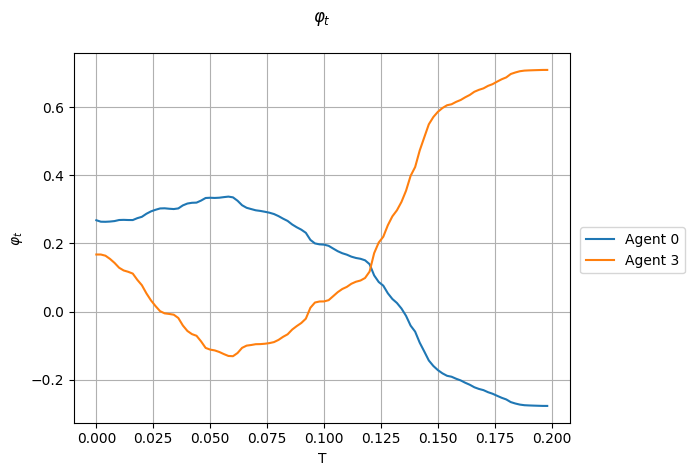
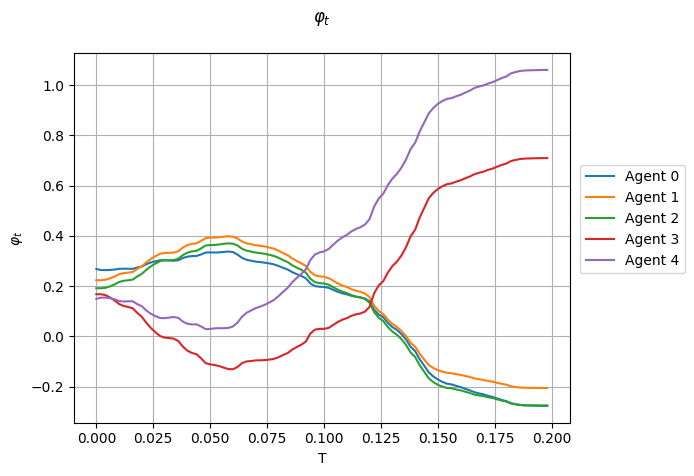
plot all 5 agents for 1.5 cost

diff --git a/Stage2/gan2.py b/Stage2/gan2.py
@@ -26,7 +26,7 @@ else:
 
 ## Regimes
 N_AGENT = 5
-COST_POWER = 2
+COST_POWER = 1.5
 
 ## Global Constants
 S_VAL = 1 #245714618646 #1#
@@ -1086,8 +1086,10 @@ def plot_all_trajectories(gen_hidden_lst, gen_lr, gen_decay, gen_scheduler_step,
     
     if N_AGENT == 2:
         AGENT_LST = [0, 1]
-    else:
+    elif utility_power == 2:
         AGENT_LST = [0, 3]
+    else:
+        AGENT_LST = list(range(N_AGENT))
     if utility_power == 1.5 and N_AGENT > 2:
         visualize_comparison(TIMESTAMPS, [mu_st_nomu[visualize_obs,:]], 0, drive_dir, "mu", ["$\mu$ Unknown"], comment = "")
         visualize_comparison(TIMESTAMPS, [sigma_st_nomu[visualize_obs,:]], 0, drive_dir, "sigma", ["$\mu$ Unknown"], comment = "")
